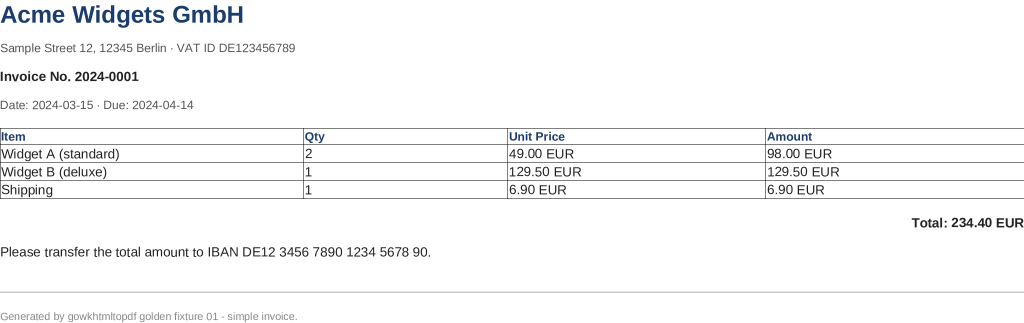
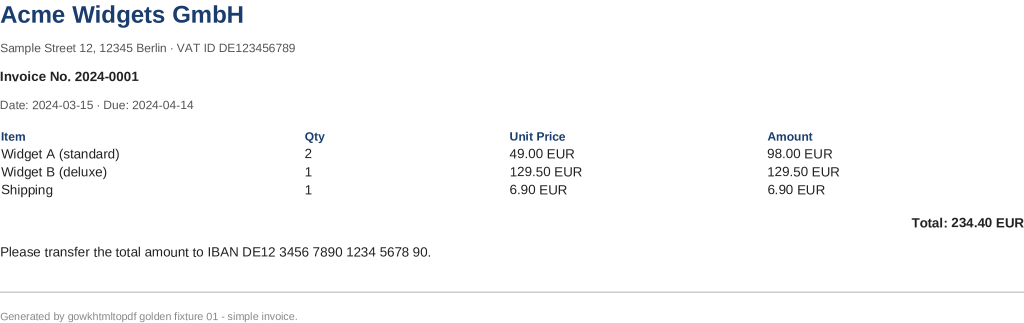
fix: avoid phantom borders on borderless collapsed tables
A collapsed table with no declared cell borders was rendered with a fallback 0.5pt grid. Detect declared cell borders before emitting the collapsed grid, and cover the behavior with a regression test. Refresh the affected sample PDF and PNG artifacts.

Validation: go test ./...; make lint; git diff --check

diff --git a/internal/layout/layout.go b/internal/layout/layout.go
@@ -2044,7 +2044,7 @@ func (e *engine) emitCollapsedRowGrid(tb *box, ri int, lastRow bool, padL float6
 	if ri < 0 || ri >= len(rowHeights) || rowHeights[ri] <= 0.01 || len(colW) == 0 {
 		return
 	}
-	bw := 0.5
+	bw := 0.0
 	var r, g, b float64
 	for _, cell := range tb.children {
 		st := cell.style
@@ -2054,6 +2054,8 @@ func (e *engine) emitCollapsedRowGrid(tb *box, ri int, lastRow bool, padL float6
 			c     [3]float64
 		}{
 			{e.scalePt(st.BorderTop.Width), st.BorderTop.Style, st.BorderTop.Color},
+			{e.scalePt(st.BorderRight.Width), st.BorderRight.Style, st.BorderRight.Color},
+			{e.scalePt(st.BorderBottom.Width), st.BorderBottom.Style, st.BorderBottom.Color},
 			{e.scalePt(st.BorderLeft.Width), st.BorderLeft.Style, st.BorderLeft.Color},
 		}
 		for _, side := range sides {
@@ -2063,9 +2065,14 @@ func (e *engine) emitCollapsedRowGrid(tb *box, ri int, lastRow bool, padL float6
 				break
 			}
 		}
-		if bw != 0.5 || r+g+b > 0 {
+		if bw > 0 {
 			break
 		}
+	}
+	// border-collapse changes how declared borders meet; it does not invent
+	// borders when the table and cells all use the initial border style.
+	if bw <= 0 {
+		return
 	}
 	nCols := len(colW)
 	left := tb.x + padL

diff --git a/internal/layout/table_collapse_grid_test.go b/internal/layout/table_collapse_grid_test.go
@@ -32,3 +32,22 @@ td, th { border: 1px solid #999; padding: 2pt; }
 		t.Fatalf("horizontal grid lines=%d, want ≥5 (got Y=%v)", len(hlines), hlines)
 	}
 }
+
+// border-collapse alone must not create visible borders. A collapsed table
+// with no table or cell border declarations has no grid to paint.
+func TestCollapsedTableWithoutBordersDoesNotPaintGrid(t *testing.T) {
+	s := sheet(t, `
+body { margin: 0; font-size: 10pt; }
+table { border-collapse: collapse; width: 200pt; }
+`)
+	res := layoutHTML(t, `<html><body>
+<table><tr><th>Item</th><th>Qty</th></tr>
+<tr><td>Widget A</td><td>2</td></tr></table>
+</body></html>`, s)
+
+	for _, op := range res.Ops {
+		if op.Kind == OpLine {
+			t.Fatalf("collapsed table without borders painted line: %#v", op)
+		}
+	}
+}
